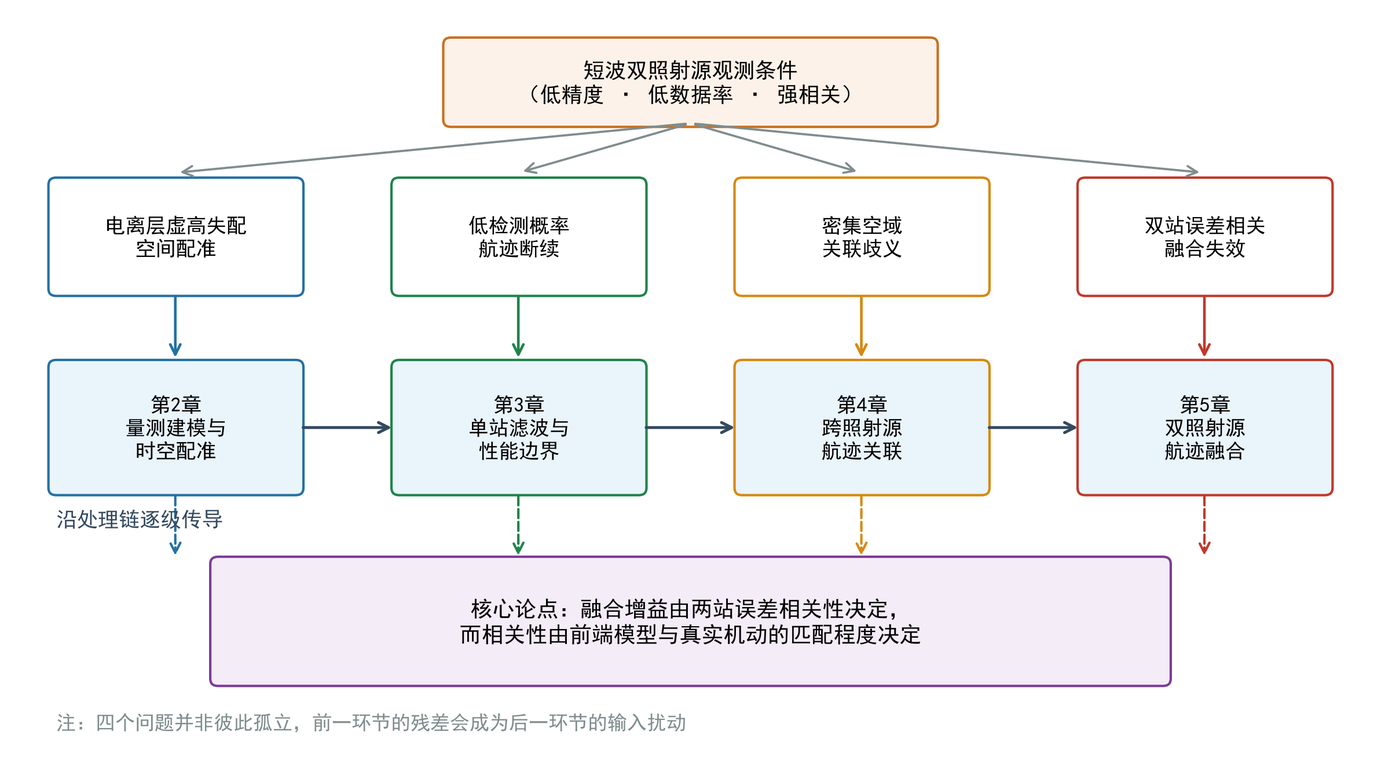
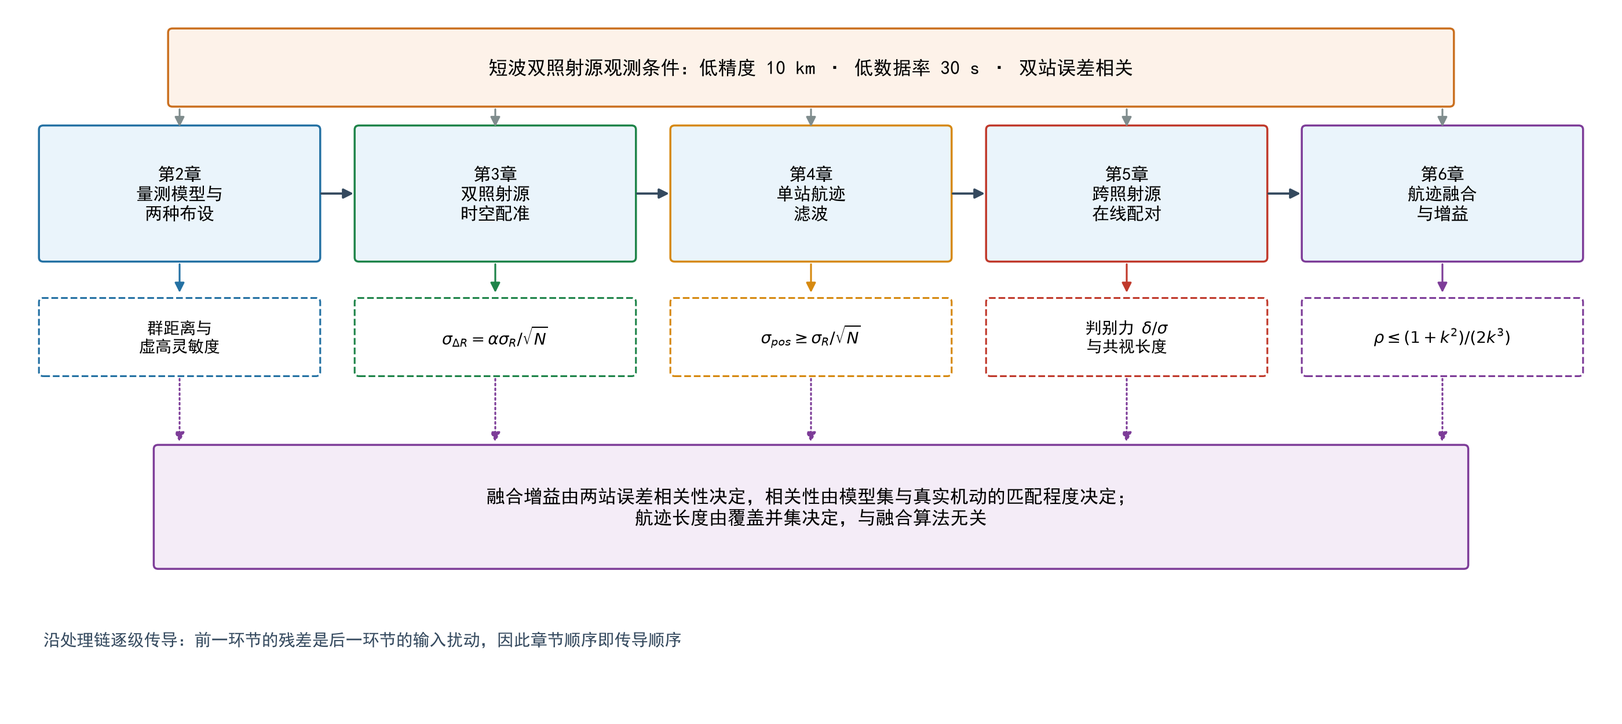
draft: 第1章绪论（6061字/1图）+ 七章版框架图；第3章灵敏度比值更正

diff --git a/_fig_ch1_new.py b/_fig_ch1_new.py
@@ -1,0 +1,93 @@
+# -*- coding: utf-8 -*-
+"""第1章插图：全文研究框架（七章版）。
+
+与旧稿 `_fig_ch1.py` 的区别：旧图按六章绘制（第2章含配准），本图按七章绘制，
+把量测建模与时空配准拆为第2、3章，并在每个环节下方标出该环节的决定性量。
+
+产出
+  Pictures/fig1_1_framework.png
+
+复现：
+  cd 格式排版
+  python _fig_ch1_new.py
+"""
+import os
+
+import matplotlib
+matplotlib.use("Agg")
+import matplotlib.pyplot as plt
+import matplotlib.font_manager as fm
+from matplotlib.patches import FancyBboxPatch
+
+_c = ["SimHei", "Microsoft YaHei", "SimSun"]
+_a = {f.name for f in fm.fontManager.ttflist}
+FONT = next((f for f in _c if f in _a), "DejaVu Sans")
+plt.rcParams["font.sans-serif"] = [FONT]
+plt.rcParams["axes.unicode_minus"] = False
+plt.rcParams["font.size"] = 10
+
+BASE = r"D:/Desktop/毕设相关/AAA毕业论文撰写/格式排版"
+OUT = os.path.join(BASE, "Pictures")
+C_BLUE, C_RED, C_GREEN, C_ORANGE, C_PURPLE, C_GRAY = \
+    "#2471a3", "#c0392b", "#1e8449", "#d68910", "#7d3c98", "#7f8c8d"
+
+
+def box(ax, x, y, w, h, txt, fc, ec, fs=8.4, lw=1.0, ls="-"):
+    ax.add_patch(FancyBboxPatch((x, y), w, h, boxstyle="round,pad=0.03",
+                                fc=fc, ec=ec, lw=lw, ls=ls))
+    ax.text(x + w / 2, y + h / 2, txt, ha="center", va="center", fontsize=fs)
+
+
+def fig1_1():
+    fig, ax = plt.subplots(figsize=(11.2, 5.0))
+    ax.set_xlim(0, 11)
+    ax.set_ylim(0, 5.05)
+    ax.axis("off")
+
+    W, GAP, X0, Y = 1.90, 0.30, 0.15, 3.30
+    cxs = [X0 + i * (W + GAP) + W / 2 for i in range(5)]
+    colors = [C_BLUE, C_GREEN, C_ORANGE, C_RED, C_PURPLE]
+
+    box(ax, 1.05, 4.45, 8.90, 0.52,
+        "短波双照射源观测条件：低精度 10 km · 低数据率 30 s · 双站误差相关",
+        "#fdf2e9", "#ca6f1e", fs=9.4)
+
+    chs = ["第2章\n量测模型与\n两种布设", "第3章\n双照射源\n时空配准",
+           "第4章\n单站航迹\n滤波", "第5章\n跨照射源\n在线配对",
+           "第6章\n航迹融合\n与增益"]
+    qty = ["群距离与\n虚高灵敏度", "$\\sigma_{\\Delta R}=\\alpha\\sigma_R/\\sqrt{N}$",
+           "$\\sigma_{pos}\\geq\\sigma_R/\\sqrt{N}$", "判别力 $\\delta/\\sigma$\n与共视长度",
+           "$\\rho\\leq(1+k^2)/(2k^3)$"]
+
+    for i, cx in enumerate(cxs):
+        box(ax, X0 + i * (W + GAP), Y, W, 0.95, chs[i], "#eaf4fb", colors[i], fs=8.6)
+        ax.annotate("", xy=(cx, 4.24), xytext=(cx, 4.43),
+                    arrowprops=dict(arrowstyle="-|>", color="#7f8c8d", lw=0.9))
+        if i < 4:
+            ax.annotate("", xy=(cxs[i + 1] - W / 2 - 0.01, Y + 0.475),
+                        xytext=(cx + W / 2 + 0.01, Y + 0.475),
+                        arrowprops=dict(arrowstyle="-|>", color="#34495e", lw=1.1))
+        box(ax, X0 + i * (W + GAP), 2.45, W, 0.52, qty[i], "#ffffff", colors[i],
+            fs=8.0, lw=0.9, ls="--")
+        ax.annotate("", xy=(cx, 3.01), xytext=(cx, 3.28),
+                    arrowprops=dict(arrowstyle="-|>", color=colors[i], lw=0.9))
+
+    box(ax, 0.95, 1.02, 9.10, 0.86,
+        "融合增益由两站误差相关性决定，相关性由模型集与真实机动的匹配程度决定；\n"
+        "航迹长度由覆盖并集决定，与融合算法无关",
+        "#f4ecf7", C_PURPLE, fs=9.2)
+    for i, cx in enumerate(cxs):
+        ax.annotate("", xy=(cx, 1.90), xytext=(cx, 2.43),
+                    arrowprops=dict(arrowstyle="-|>", color="#7d3c98", lw=0.9, ls=":"))
+
+    ax.text(0.15, 0.42, "沿处理链逐级传导：前一环节的残差是后一环节的输入扰动，因此章节顺序即传导顺序",
+            fontsize=8.4, color="#34495e")
+
+    fig.tight_layout()
+    fig.savefig(os.path.join(OUT, "fig1_1_framework.png"), dpi=250, facecolor="white")
+    plt.close(fig)
+    print("  -> fig1_1_framework.png")
+
+
+if __name__ == "__main__":
+    fig1_1()

diff --git a/新稿/ch1.md b/新稿/ch1.md
@@ -1,0 +1,111 @@
+---
+chapters: true
+chapDelim: "-"
+numberSections: false
+secHeaderDelim: " "
+eqnLabels: arabic
+autoEqnLabels: false
+tableEqns: true
+eqnBlockInlineMath: true
+eqnIndexTemplate: "($$i$$)"
+eqnPrefixTemplate: "公式($$i$$)"
+figureTitle: "图"
+figPrefix: ["图", "图"]
+figIndexTemplate: "$$i$$"
+tableTitle: "表"
+tblPrefix: ["表", "表"]
+tblIndexTemplate: "$$i$$"
+titleDelim: " "
+---
+
+# 第1章 绪论
+
+## 1.1 研究背景与意义
+
+对超视距、强隐蔽目标的广域监视需求，长期受制于雷达体制的物理边界。微波雷达依靠视距传播，单站作用距离仅数十至数百公里，且受地球曲率遮挡；自建发射阵地的短波超视距雷达虽可覆盖数千公里，却因阵地固定、辐射特征明显而生存能力受限。短波外辐射源雷达提供了第三条路径：以广播、通信等既有的短波信号为照射源，借助电离层反射实现超视距照射，接收站只负责接收目标散射回波，自身不辐射。
+
+其优势来自体制而非单项指标[39]。照射源属于第三方，接收站无需申请专用频率、无需建设发射设施，成本与部署周期一并压缩；全程被动接收，难以被电子侦察发现与定位，也不存在可被反辐射武器攻击的发射阵地；短波波长远大于吸波材料的适用尺度，双基地几何下前向散射增强，因而具备一定的反隐身潜力。
+
+其效能同时被物理链路制约。信号须两次穿越电离层，由此形成三重困难。电离层是时变、非均匀的随机介质，行波扰动引起相位污染、多普勒展宽与群路径抖动，等效虚高在数十分钟内即可漂移数公里。非合作信号并非为雷达设计，调幅广播与 DRM 信号的带宽仅十千赫兹量级，模糊函数沿时延轴的主瓣很宽，距离分辨单元可达数十公里。回波功率比直达波低数十至上百分贝[8]，检测须先解决强直达波与多径分量的抑制。
+
+上述条件最终凝结为一组量测指标：群距离误差 10 km 量级，方位误差 0.35° 至 0.60°，检测概率 0.6，更新周期 30 s。在 1500 km 地面距离上，0.35° 的方位误差对应约 9 km 的横向误差，与群距离误差同量级；30 s 内巡航速度 230 m/s 的目标已移动 6.9 km。量测误差与帧间位移同量级，意味着相邻两帧的点迹在状态空间中已难以区分。经典的航迹起始、点迹关联与状态滤波都以误差远小于帧间位移为前提，这一前提在短波条件下不成立，直接套用现有算法难以获得提升。
+
+利用多个照射源同时照射同一区域、以空间与频率分集获取额外信息，是被广泛看好的路径[44]。分集的价值在于误差互补：同一目标相对两源的双基地几何不同，误差椭球的长轴方向也不同，在一个源上主要表现为群距离误差的方向，在另一个源上可能是方位约束较强的方向；两源载频不同，衰落近似不相关，一个源漏检时另一个源仍可能给出有效点迹。分集增益不会自动兑现。两条航迹放在一起，先要判断它们是否指向同一目标，再要判断如何把两个低精度估计合成为更好的估计。时间上两源帧时刻存在偏移；空间上两条射线的电离层路径不同，等效虚高不一致，形成与目标位置强耦合的系统偏差；关联上低精度使不同目标的航迹相互交叠，低数据率又使可用判决样本极少；融合上两源共视同一目标与同一片电离层，局部估计误差不再独立，独立性假设随之失效。四个问题层层相扣，构成本文研究对象的整体。
+
+理论意义在于：经典航迹融合假设传感器精度足够高、数据率足够密、局部估计误差相互独立，短波双照射源场景同时打破这三条。因此改进的起点不在算法库中另选一种加权方式，而在误差从何而来、相关性如何形成这一层面，重新审视融合的有效性。工程意义在于：所形成的方案可支撑海空态势感知与远程目标监视，使短波被动探测从能发现走向能连续跟踪。
+
+## 1.2 国内外研究现状
+
+### 1.2.1 短波外辐射源雷达的发展脉络
+
+外辐射源探测的思想几乎与雷达同时诞生。1935 年 Watson-Watt 利用 BBC 短波广播信号探测到 12 km 外的轰炸机，验证了借用第三方照射源探测目标的可行性[1]。二战期间德国研制 Klein Heidelberg 系统，通过接收英国 Chain Home 雷达网的信号实现机群预警，成为最早的实战化双基地雷达[2]。此后因收发隔离困难与信号处理能力不足，研究重心转向单基地雷达，该体制停滞近半个世纪。
+
+20 世纪末，电子对抗对隐蔽探测的需求使其重新受到重视。1998 年美国洛克希德·马丁公司推出 Silent Sentry 系统，利用调频广播与电视信号实现 200 km 量级探测，标志其进入实用化阶段[3]。21 世纪初 DAB、DVB-T 与 DRM 等数字广播信号普及，带宽与载频稳定性优于模拟广播；德国 Cassidian 公司的 PARADE 系统综合运用多种广播信号，探测距离超过 150 km，定位精度优于 500 m[4]。国内起步较晚但进展迅速，武汉大学团队研制多波段实验系统并基于 DRM 信号开展外场实验[5,6]，多所高校与院所随后相继开展研究[39]。近年 LTE 等移动通信信号亦被引入，用于低空小目标的探测[10]。
+
+纵观这一脉络，可见一条清晰的取舍：成熟系统多工作于米波或分米波段，依靠视距传播，作用距离百公里量级、精度可达百米量级；短波波段借助电离层反射可覆盖数千公里，代价是精度下降一个数量级以上。已公开的短波天波研究多采用自建发射站，以非合作广播为照射源、多源并用的工作尚不多见。距离与精度的这一矛盾，正是短波外辐射源雷达信息处理的起点。
+
+### 1.2.2 天波链路的信息处理与单站滤波
+
+信息处理的第一道关口是信号级处理。外辐射源雷达的直达波功率通常比目标回波高出数十至上百分贝，多径与杂波残留严重污染距离—多普勒平面，杂波抑制因而是检测的前提。Colone 等人提出的扩展相消算法以批处理投影消除强直达波与多径分量[8]，其滑窗改进版本进一步适应信道时变与目标机动[9]。这类方法决定有没有点迹，不决定点迹准不准。
+
+单站航迹滤波方面，非线性滤波是主线。Julier 与 Uhlmann 提出的无迹卡尔曼滤波以无迹变换传播状态分布，避免线性化截断误差，成为处理极坐标量测的标准工具[7,54]。围绕外辐射源雷达的具体困难，国内学者做了针对性改进：文献[12]设计去相关无偏转换量测滤波以应对观测误差大、非线性强；文献[13]将自适应扩展卡尔曼滤波与交互多模型结合；文献[40]以迭代扩展卡尔曼滤波处理天波路径下的强非线性；文献[14]在 SORT 框架下并联多个无迹卡尔曼滤波器，借助马氏距离完成关联；文献[41]研究三维数据关联下的多目标跟踪。深度学习方法亦被引入，文献[15]构建端到端的航迹关联网络，文献[16]从运动特征入手区分无人机与飞鸟。
+
+低检测概率下的航迹维持是另一条线索。检测概率 0.6 意味着平均每五帧丢失两帧，常规的连续多帧删除逻辑会使真实航迹过早终止。文献[10]在 LTE 体制的被动雷达中采用针对性的跟踪策略，验证了非合作信号下连续跟踪的可行性；文献[11]研究无迹卡尔曼滤波器组网中的序贯融合，以递归传播互协方差降低计算量；文献[55]与文献[56]分别处理多平台异构信息与干扰条件下的滤波。已有工作表明，低数据率下的滤波性能不仅取决于算法结构，更取决于运动模型与真实机动的匹配程度。不过，现有方法大多假设检测概率较高、噪声统计特性平稳，对电离层扰动引起的非平稳噪声缺乏系统处理；自适应过程噪声策略的有效性依赖新息统计量与机动强度的可分辨性，而这一前提在 30 s 采样间隔下并不稳固。
+
+### 1.2.3 时空配准与系统偏差估计
+
+多传感器系统的时空配准包含两个相对独立的问题：时间对齐与空间配准。时间对齐处理各传感器采样时刻不一致，常用插值或外推把状态折算到统一时刻，非均匀采样下的插值与外推精度已有系统分析[45]，时延的最小二乘估计则为异步量测提供了估计框架[46]。空间配准估计各传感器的系统偏差，经典做法把测距、测角的偏差建模为常值，以最小二乘或极大似然从公共目标中联合估计[47,48]。这类方法的前提是偏差与目标位置无关，因而可以用一组常数刻画。
+
+天波链路不满足这一前提。等效虚高以非线性方式进入群距离，其灵敏度随目标距离单调衰减，同一虚高偏差在 1000 km 与 1900 km 处留下的距离误差相差约七成；标称值与真值之差因此不能被折成一个常数扣除，也不能靠坐标变换吸收。这使天波双基地的配准需要把虚高本身作为待估参数，并与距离偏置联合求解。两个参数在群距离上高度相关，可辨识性取决于标校集的几何分布，而非样本数量。已公开的配准研究多针对常值偏差，对这类随几何变化的参数讨论较少，而该环节的残差会直接进入后续的关联门限与融合权重。
+
+### 1.2.4 航迹关联方法
+
+航迹关联判断来自不同传感器的两条局部航迹是否源于同一目标，是融合的前置环节。基于统计检验的方法历史最久：最近邻法仅比较当前时刻的统计距离，密集目标下极易误判[17]；K 近邻法引入历史判决次数以提升鲁棒性[18]；双门限法设置距离与次数两级门限，仅当统计距离持续小于门限且累计次数足够时才确认关联[19]；序贯法利用航迹历史状态差的联合似然比检验，充分挖掘时间维信息[50,51]。基于模糊数学的方法以隶属度刻画相似性，构造模糊相关矩阵后按最大相似度判决[52,53]。Bar-Shalom 与何友分别在专著中系统总结了上述方法[20,25]，文献[49]给出了面向海上目标轨迹的综述。
+
+近年来，关联方法向利用结构信息与利用学习能力两个方向演进。前者着眼于航迹间的拓扑关系：文献[21]以参考拓扑特征与广义子模式分配距离度量拓扑相似度，以抵抗系统误差；文献[29]采用上层灰色理论、下层拓扑相似的分层结构，在补偿系统偏差的同时降低计算量；文献[31]以航迹点的绝对与相对位置构建图谱特征，在密集场景下区分能力较好；文献[30]以时空关系描述航迹间的相对运动。后者借助学习模型提取时空特征：文献[26]以卷积与双向长短期记忆网络提取时空特征，文献[28]以机器学习方法构造关联判别器，文献[24]以密度峰值聚类应对小样本条件，文献[22]则在多假设框架下引入航迹评分以抑制歧义。文献[23]指出定位精度与观测几何构型密切相关，为门限设计提供了物理依据。
+
+### 1.2.5 航迹融合方法
+
+航迹融合把关联成功的局部航迹合成为全局一致的航迹，分布式结构因通信量小、鲁棒性强而成为主流[20]。简单凸组合融合按误差协方差的反比分配权重，计算量极小，其最优性依赖局部估计误差相互独立。为处理相关性，Bar-Shalom 与 Campo 给出了互协方差的递推估计[20]；互协方差难以获得时，协方差交叉融合构造包含各局部椭球交集的保守解以保证一致性[32]，其快速形式以协方差迹确定权重[33]。国内研究亦有积累：文献[35]综述了两类概率密度均值融合方法，文献[36]处理有限视域下的标签一致性问题，文献[37]研究分布式大气波导雷达的数据融合，文献[34]提出并行航迹融合模型，文献[27]面向多传感器多目标环境研究航迹融合算法，文献[38]把学到的方法引入阵列测向的角度信息融合，文献[42]与文献[43]分别讨论组网融合与多接收站探测的工程约束，文献[57]与文献[58]则处理杂波环境与空间飞行器跟踪中的融合问题。
+
+### 1.2.6 现状评述
+
+综合来看，两个方向的理论体系都已完备，但其假设前提与短波双照射源场景存在系统性错位。关联方法假定航迹连续、数据率高、误差远小于目标间距，而短波条件下误差与目标间距同量级、航迹片段化严重；融合方法假定局部估计误差独立或互协方差可计算，而双照射源共视同一目标与同一片电离层，相关性恰恰不可忽略。现有研究也很少把配准误差、航迹断续、关联歧义与误差相关放在同一场景中考察其相互放大的机制，因而难以回答一个更基本的问题：在这种量测条件下，融合究竟能带来多少增益，增益又由什么决定。
+
+## 1.3 需要解决的问题
+
+将上述分析落到具体环节，本文认为短波双照射源航迹关联与融合有四个需要正面回答的问题，它们分别位于配准、滤波、关联与融合，并沿处理链逐级传导。
+
+第一是电离层等效虚高失配引起的空间配准问题。天波量测得到的是收发总群距离，需借助等效虚高才能反演目标的地面距离，而等效虚高本身未知且缓变。虚高误差经反演近乎一比一地转化为位置误差，在本场景的 1400 km 处系数为 1.02。实测中，标称失配 20 km 使单站均方根误差由 15.5 km 升到 21.7 km，融合增益由 41.9% 降到 19.6%；失配 40 km 时融合误差升至 30.1 km，增益只剩 8.5%。传统配准方法多针对测距、测角环节的常值偏差设计[47,48]，难以刻画虚高经非线性几何映射后形成的位置偏差。若不解决这一环节，后续关联将在被系统偏差整体平移的坐标中进行，任何门限设计都失去意义。
+
+第二是低检测概率与低数据率共同导致的航迹断续问题。检测概率 0.6 意味着单站每五帧丢失两帧，30 s 的数据率又使目标在相邻帧间移动 6.9 km，预测协方差在连续漏检时迅速膨胀。传统航迹管理以连续多帧确认起始、以连续多帧丢失终止，在这种条件下要么过早终止真实航迹，要么因门限放宽而接纳大量虚假航迹。航迹一旦断裂，跨照射源关联便失去可供比较的重叠段，融合更无从谈起。进一步地，滤波器对过程噪声的调节在本体制下不构成有效手段，因为多普勒通道已经承担了全部速度信息；真正决定单站精度的，是运动模型与真实机动的匹配程度。
+
+第三是密集空域下的关联歧义问题。同时在场目标增至数十架时，候选航迹对数量随目标数近似平方增长，而可区分度随量测误差增大而下降。当位置误差达到十公里量级、目标间距与之相当时，最近邻准则退化为近似随机指派；即便引入多帧累积，门限的收紧与放松也会在误配与漏配之间形成权衡，不存在同时最优的取值。更棘手的是残余误配的形态：平行航路或编队飞行下，两条航迹互相配反之后各自的位置序列仍然平滑合理，单帧统计检验无法察觉，只有从全局指派的角度才能识别。这类交换型误配一旦进入融合，会把两个目标的航迹长期污染。
+
+第四是双站误差相关导致的融合失效问题。两个照射源跟踪同一目标，共享同一段真实机动过程与同一套运动模型；当模型与真实机动不匹配时，两站会在同一时刻、朝同一方向产生同号预测误差，局部估计误差因而正相关。此时简单凸组合融合仍按独立假设分配权重，结果既过度自信又偏离最优，融合精度甚至可能劣于较好的单站航迹。引入互协方差的算法理论上更合理，但互协方差难以从数据可靠估计；协方差交叉融合虽保证一致性，却以保守性为代价。由此可知，融合收益并不单纯由融合算法决定，更多取决于误差相关性这一前端属性，且这一关系应当有可计算的判据。
+
+这四个问题并非彼此孤立。配准残差使量测带有缓变偏差，降低关联区分度；航迹断续使可用公共帧减少，加剧歧义；误配把错误配对送入融合；误差相关则决定即便配对完全正确，融合也未必带来收益。现有研究很少沿这条传导链考察各环节的耦合关系，这正是本文的切入点。
+
+## 1.4 研究内容与结构安排
+
+本文的研究定位是在既有的短波双照射源观测条件下，回答三个递进的问题：航迹级融合在什么条件下有效，为什么有效，以及如何使其有效。本文不追求单项指标全面最优，而力求把每一环节的性能边界、失效机理与适用条件交代清楚。全文的研究框架与章节对应关系如图[@fig:ch1_framework]所示。
+
+![全文研究框架与章节对应关系：上层为短波双照射源的观测条件，中间为五个技术章及各自的决定性量，下层为贯穿全文的两条核心论点](Pictures/fig1_1_framework.png){#fig:ch1_framework}
+
+图中上层为观测条件派生的技术问题，中层为五个技术章与各自的决定性量，下层为贯穿全文的核心论点。五个环节沿处理链串行排列而非并列：配准残差进入滤波，滤波输出的航迹质量决定配对难度，配对结果再进入融合，因此任一环节的残差都会成为下一环节的输入扰动。这一串行结构决定了章节顺序，也决定了核心论点只能在全链路打通之后才能成立。
+
+第2章建立量测模型与数据场景。从双基地群距离的折线等效出发，把电离层等效虚高显式参数化为可估量，推导群距离、方位与多普勒量测及其对虚高的灵敏度；给出近共视与覆盖互补两种布设的几何参数与分工，说明前者的用途是隔离变量、后者是延长航迹，二者不互相替代；以实测 ADS-B 航迹构造数据驱动的半实物场景。
+
+第3章研究双照射源时空配准。区分站间时基与站源时基，把虚高、距离偏置与方位偏差写成三参数观测模型；由一阶线性化导出 Fisher 信息矩阵与参数下界，给出放大因子与可辨识条件，说明标校精度由距离跨度而非航迹条数决定；以最大似然估计完成标定，并用端到端对照与蒙特卡洛验证估计器逼近下界。
+
+第4章研究单站航迹滤波与性能边界。采用交互多模型无迹卡尔曼滤波处理强非线性量测与 0.6 的检测概率，推导匀速窗口下的位置与速度下界；用三条负结果说明过程噪声调节不构成有效手段，并给出可迁移的判据；指出模型集与真实机动分布的匹配是唯一有效的杠杆；给出误差重尾的统计形态与报告口径。
+
+第5章研究跨照射源在线配对。分析歧义的三个来源，把配对拆成判定与指派两层；判定层将多项判据软化为可加权证据，指派层以全局最优代替逐点贪心；用正交实验分离各成分的贡献，并由判别力推出确认帧数的取值。
+
+第6章研究航迹融合与增益机理。导出逆方差加权的方差闭式，给出融合有效的条件；通过模型集匹配实验把误差相关性、协方差一致性与融合增益连成一条可检验的传导链；给出航迹长度的几何上界与覆盖互补布设的系统基线。
+
+第7章总结全文，归纳结论与适用边界，说明未闭合的问题与后续方向。
+
+全文以 ADS-B 实测航迹驱动的半实物仿真为验证基础：目标状态取自真实广播式自动相关监视报告，水平精度约 30 m，相对 10 km 量级的雷达误差可忽略；群距离、方位与多普勒由第2章的物理模型生成，检测与虚警按设定概率仿真。本文因此不称实测验证，所有结论在量测模型正确这一前提下成立。场景从同时六架目标的稀疏空域延伸至六十余架的高密集空域，前者检验链路可用性，后者检验方法在歧义压力下的行为。
+
+按这一安排，本文的工作可以概括为：把双照射源的融合增益分解为几何的航迹延长与统计的误差互补两部分，分别给出上界与判据；把配准、滤波、配对三个环节的性能边界用可计算的量表达出来，使"为什么只能做到这一步"成为可以回答的问题。

diff --git a/新稿/ch3.md b/新稿/ch3.md
@@ -20,7 +20,7 @@ titleDelim: " "
 
 # 第3章 双照射源时空配准
 
-天波链路的定位误差中含有一个非随机部分。它由三个可参数化的系统量构成：电离层等效虚高 $h$、接收站与外辐射源之间时基失配在群距离上的等效偏置 $\Delta R_{\text{sync}}$、阵列方位偏差 $\Delta\theta$。三者之中只有 $\Delta\theta$ 以常数形式作用于方位。$h$ 以非线性方式进入群距离，其灵敏度随目标距离单调衰减，同一虚高偏差在 1000 km 与 1900 km 处留下的距离误差相差约二点六倍；以残差均值为基准的标定因此只在一段距离内成立，跨距离使用时必须把 $h$ 本身作为待估参数，而不能把它的平均效应折成一个常数扣除。
+天波链路的定位误差中含有一个非随机部分。它由三个可参数化的系统量构成：电离层等效虚高 $h$、接收站与外辐射源之间时基失配在群距离上的等效偏置 $\Delta R_{\text{sync}}$、阵列方位偏差 $\Delta\theta$。三者之中只有 $\Delta\theta$ 以常数形式作用于方位。$h$ 以非线性方式进入群距离，其灵敏度随目标距离单调衰减，同一虚高偏差在 1000 km 与 1900 km 处留下的距离误差相差约七成；以残差均值为基准的标定因此只在一段距离内成立，跨距离使用时必须把 $h$ 本身作为待估参数，而不能把它的平均效应折成一个常数扣除。
 
 第2章的量测模型已给出群距离的几何形式，但其中的虚高只取了标称值，系统偏差尚未处理。由此产生三个问题。其一，三个参数能否从数据中分离，条件是什么；其二，分离能达到什么精度，代价是什么；其三，标定后的残差以何种方式进入后续的关联与融合。本章的结论分别是：参数可以分离，条件是标校集的距离跨度足够；估计标准差可以逼近克拉美-罗下界，本文实测与下界之比为 1.04–1.26；初始失配可被标定完全消除，而残余失配沿两条彼此独立的通道退化融合性能。
 

diff --git a/新稿/图源清单.md b/新稿/图源清单.md
@@ -6,6 +6,7 @@
 
 | 图 | 文件 | 生成脚本 | 数据来源 | 复现命令 |
 |---|---|---|---|---|
+| 图1-1 全文研究框架 | `Pictures/fig1_1_framework.png` | `格式排版/_fig_ch1_new.py` → `fig1_1()` | 无数据，结构示意；五个技术章下方的决定性量取自第2–6章 | `cd 格式排版 && python _fig_ch1_new.py` |
 | 图2-1 两种布设的平面几何 | `Pictures/fig2_1_layout.png` | `格式排版/_fig_ch2_new.py` → `fig2_1()` | 站点/波束参数：`single_target_with-turn/config/simulation_params_oracle.m`、`config/params_coverage_online.m`；波束中心 83.533°/88.770° 由 `_analysis/diag_coverage_geometry.m` 实测 | `cd 格式排版 && python _fig_ch2_new.py` |
 | 图2-2 传播路径与灵敏度 | `Pictures/fig2_2_group_range.png` | `_fig_ch2_new.py` → `fig2_2()` | 解析式 $L=\sqrt{\rho^2+4h^2}$，$h\in\{280,300,320\}$，基线 $L$=380 km | 同上 |
 | 图2-3 并发数与视场内目标数 | `Pictures/fig2_3_density.png` | `_fig_ch2_new.py` → `fig2_3()` | `data/adsb_ns/scene_fr24_all.csv`（adsb_ns_all，57 条 / 2 033 帧 / 12 281 目标帧） | 同上 |
@@ -39,6 +40,7 @@
 
 | 旧图 | 计划 | 备注 |
 |---|---|---|
+| `fig1_1_framework.png`（六章版） | 已由 `_fig_ch1_new.py`（七章版）替代 | 旧 `_fig_ch1.py` 保留不改，其输出路径与新版相同；复现新稿时只用 `_fig_ch1_new.py` |
 | `fig2_5_reg_before_after.png` | 重画或弃用 | 依赖旧的 2 参数/3 参数距离带偏差，需在 63 段场景重算 |
 | `fig2_6_h_mismatch.png` | 已由 `fig3_2_e7_mismatch.png` 替代 | 新版为 63 段 3 种子 |
 | `fig3_1_imm_structure.png` | 保留（结构框图，与数据无关） | 第4章 |
